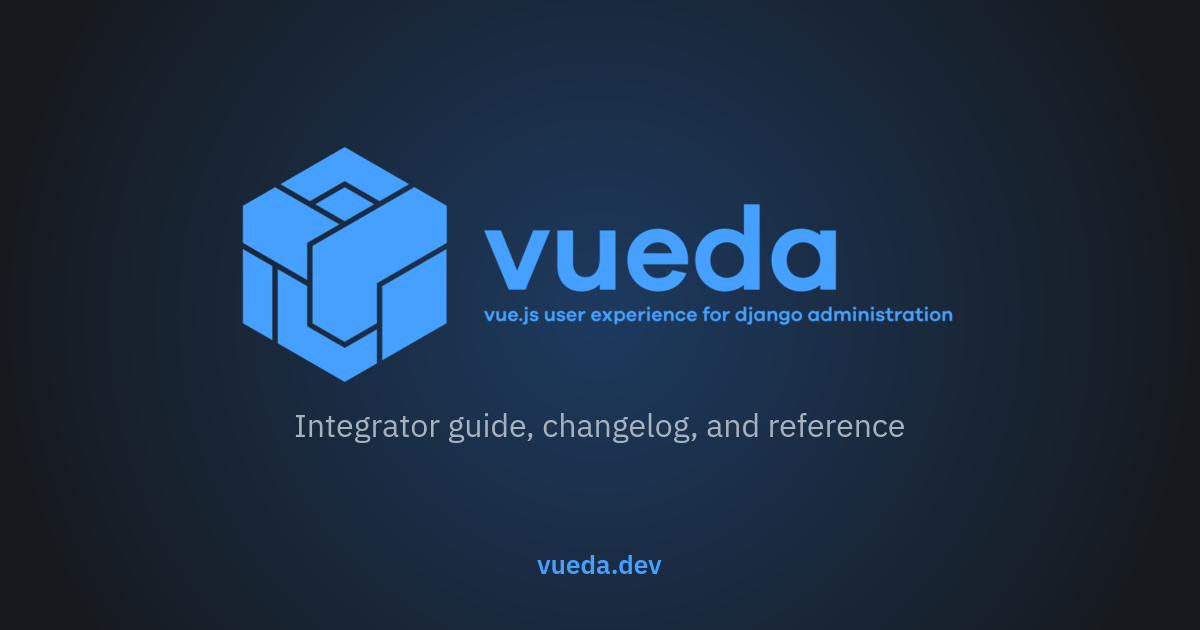
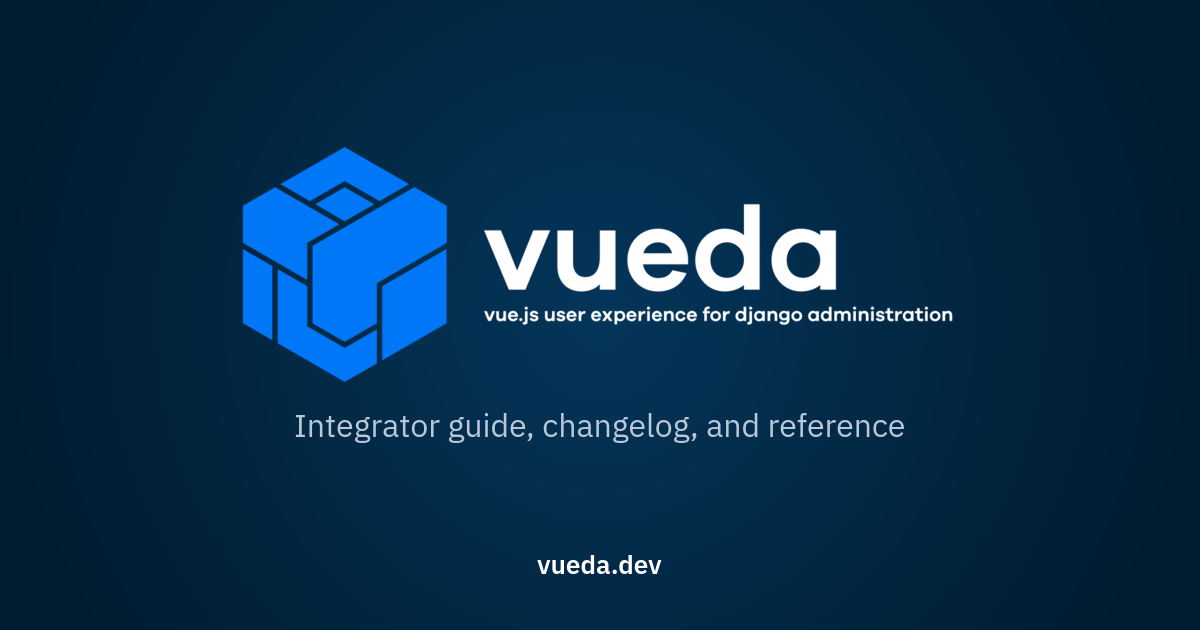
fix(docs): follow the brand dark-background treatment on the social card
The card knocked the whole lockup back to a lightened blue on the
documentation dark background. Arrai-Brand-Standards.pdf fixes the dark
treatment instead: the mark keeps the brand blue, the wordmark reverses to
white, and the field is the brand dark blue.

The brand README records the corrected colours and the regeneration steps.

Changed region(s): [[0.185, 0.2413, 0.8017, 0.7238], [0.4317, 0.8746, 0.555, 0.9349]]

diff --git a/brand/README.md b/brand/README.md
@@ -40,25 +40,28 @@ documentation site. The Open Graph and Twitter card tags built in
 `docs/.vitepress/config.mjs` point at it. It is 1200x630 because that is
 what the crawlers expect, and PNG because they ignore SVG.
 
-It composes existing brand material rather than new artwork. The lockup
-is `logo-text-solid.svg` with its fill recoloured to the documentation
-dark-mode brand blue (`#45a0ff`), over the dark background (`#161a1f`)
-with a faint radial. The two lines of live type are IBM Plex Sans. No
-Galano glyph is set as type, so the licence position above is unchanged.
+It composes existing brand material rather than new artwork, and it
+follows the dark-background treatment in `Arrai-Brand-Standards.pdf`: the
+mark keeps the brand blue (`#0077f7`) and the wordmark is knocked out in
+white, over the brand dark blue (`#001c30`) with a faint radial. The two
+lines of live type are IBM Plex Sans. No Galano glyph is set as type, so
+the licence position above is unchanged.
 
-To regenerate it, recolour the lockup, render it, and compose the card
-with ImageMagick. IBM Plex Sans ships as woff2 in `@fontsource-variable`,
-so instance a static TTF first with `fonttools varLib.instancer`.
+To regenerate it, knock the two wordmark paths out in white, render the
+lockup, and compose the card with ImageMagick. Those two paths are the
+ones carrying `aria-label` in `logo-text-solid.svg`; every other path
+belongs to the mark. IBM Plex Sans ships as woff2 in
+`@fontsource-variable`, so instance a static TTF first with
+`fonttools varLib.instancer`.
 
 ```bash
-sed 's/#0077f7/#45a0ff/g' brand/logo-text-solid.svg > lockup.svg
-magick -background none lockup.svg -resize 820x lockup.png
-magick -size 1200x630 xc:'#161a1f' \
-  \( -size 1200x630 radial-gradient:'#1d3a5f'-'#161a1f' \) -composite \
+magick -background none lockup-white-wordmark.svg -resize 820x lockup.png
+magick -size 1200x630 xc:'#001c30' \
+  \( -size 1200x630 radial-gradient:'#04355a'-'#001c30' \) -composite \
   lockup.png -gravity center -geometry +0-50 -composite \
-  -font Plex-400.ttf -pointsize 32 -fill '#a6b2c0' -gravity center \
+  -font Plex-400.ttf -pointsize 32 -fill '#b9c7d6' -gravity center \
   -annotate +0+110 'Integrator guide, changelog, and reference' \
-  -font Plex-600.ttf -pointsize 26 -fill '#45a0ff' -gravity south \
+  -font Plex-600.ttf -pointsize 26 -fill '#ffffff' -gravity south \
   -annotate +0+48 'vueda.dev' \
   -depth 8 -strip docs/public/assets/social-card.png
 ```
